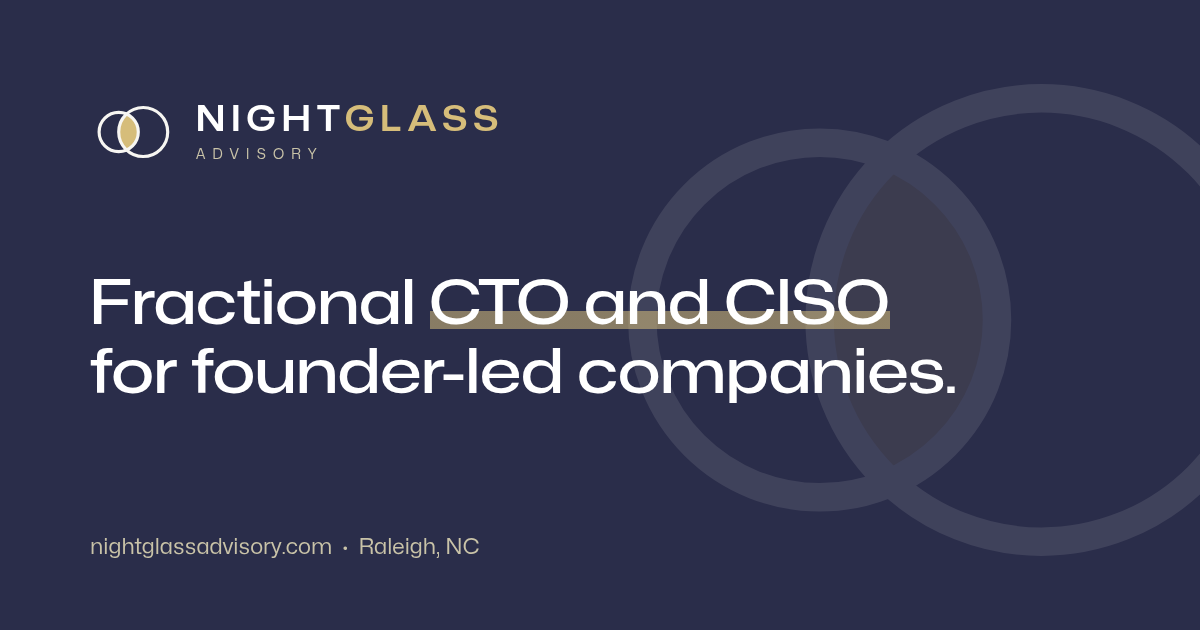
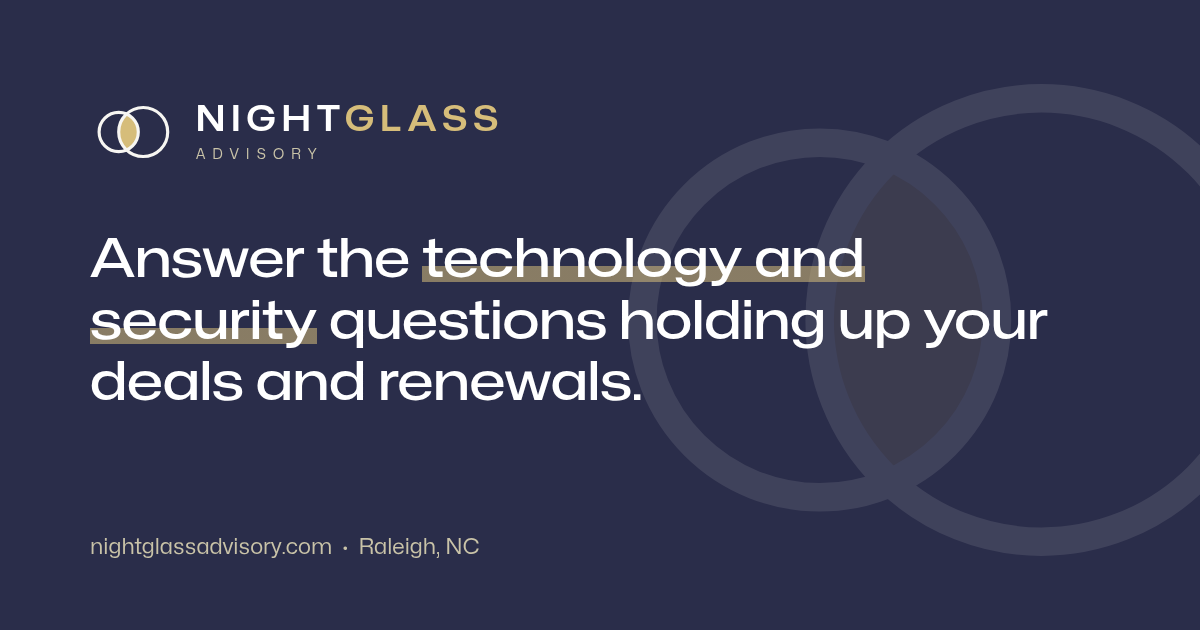
Phase 1 copy: lead with the fire, not the label (Abbi + Todd plan, Mike's D1-D3 10/23)
- H1/title/OG: "Answer the technology and security questions holding up your
  deals and renewals." "Fractional CTO and CISO" stays only in
  siteDescription + schema (D1-A). OG image re-rendered.
- Hero lede: why now + "make sure what they expose actually gets fixed"
  (Mike: no hands-on-keyboard claims). Declaration reworded, no "three weeks".
- W7: real 10-page questionnaire (D3); tech-side follow-up line.
- Problem cards: icons + CTO/CISO badges removed ("don't make me pick").
- Track record: drop the "NDAs are a feature" line.
- The Intensive: "How we start"; After the readout = three paths, incl.
  "I help you hire" (Todd's hire-my-replacement line).
- About: geek-to-human identity paragraph (D2).
- FAQ rebuilt around objections; CTO-or-CISO, Why Nightglass, insurance,
  someone-we-answer-to dropped.

Changed region(s): [[0.0617, 0.3921, 0.8942, 0.6333]]

diff --git a/config.php b/config.php
@@ -10,7 +10,8 @@ return [
     'baseUrl' => '',
     'production' => false,
     'siteName' => 'Nightglass Advisory',
-    'siteDescription' => 'Fractional CTO and CISO for founder-led companies between $2.5M and $25M. Technology decisions and security answers, without a full-time executive.',
+    // D1-A (Mike 10/23): the 'fractional CTO and CISO' label stays HERE (search, schema), leads with the problem.
+    'siteDescription' => 'Answers to the technology and security questions holding up your deals and renewals. Fractional CTO and CISO for founder-led companies between $2.5M and $25M.',
     'siteAuthor' => 'Mike Faas',
     'email' => 'mike@nightglassadvisory.com',
     'linkedin' => 'https://www.linkedin.com/in/mfaas',
@@ -30,12 +31,13 @@ return [
     // Commercial lane (Mike, 2026-10-12): every booking CTA goes to /schedule.
     'bookingUrl' => '/schedule',
 
-    // Hero line (2026-10-12, Mike: "I need both CTO and CISO"). Balanced on purpose.
-    // Hero lede, cut 55 -> 27 words (review 10/12). H1 already says 'fractional CTO and CISO' and 'founder-led'.
-    'tagline' => 'For companies between $2.5M and $25M: I help you decide what to build, buy and stop, and answer the security questions holding up your deals and renewals.',
+    // Hero lede (10/23, Abbi + Todd plan W4): why now + the follow-through. The H1 carries the questions, so the lede doesn't repeat them.
+    // Mike 10/23: never claim hands-on-keyboard work ('I fix'); he makes sure it gets fixed.
+    'tagline' => 'Winging it worked at 20 people. At 60, with an enterprise customer asking and one person holding everything together, you can\'t. I get you the answers, then make sure what they expose actually gets fixed.',
 
-    // The declaration (Mike, 2026-10-12, option A): CTO + CISO balanced. Not rendered on the page; the source line for outreach and bios.
-    'declaration' => 'I help founder-led companies between $2.5M and $25M answer the technology and security questions they can\'t answer in-house, in three weeks, without hiring a full-time CTO or CISO.',
+    // The declaration (Mike, 10/12, CTO + CISO balanced; reworded 10/23, D1-A): no 'three weeks' (reads as 'you only need me for
+    // three weeks') and no 'CTO or CISO' label. Not rendered on the page; the source line for outreach and bios.
+    'declaration' => 'I help founder-led companies between $2.5M and $25M answer the technology and security questions holding up their deals, renewals and growth, and then make sure what the answers expose actually gets fixed.',
 
     // /infosecon slides gate (Mike 10/12: post AFTER the talk, Fri 10/30 3:35pm). To publish: copy the deck PDF to
     // source/assets/downloads/when-everything-depends-on-everything-infosecon-2026.pdf, set true, push.
@@ -68,9 +70,17 @@ return [
     ],
 
     // Council 10/08: retainer offered ONLY at the readout, no on-call. Mike 10/12: named on the site, NO price, 3-month minimum.
+    // 10/23 (plan W9): 'After the readout' is three paths; path 3 is Todd's 'I'll hire my replacement'. 'help you hire' leaves room to price it.
     'retainer' => [
         'name' => 'Ongoing advisory',
-        'body' => 'Most clients run the plan themselves. If you\'d rather have me in the room while you do, I stay on as your part-time CTO and CISO: a monthly retainer with a three-month minimum and no on-call promise. I only offer it at the readout, once we both know what the job is.',
+        // Plain text for the Service schema only; the page renders 'lead' + 'paths'.
+        'body' => 'After the Intensive, I stay in it with your team as your part-time CTO and CISO until the plan is done: a monthly retainer with a three-month minimum and no on-call promise. When you are ready for a full-time leader, I help you hire them.',
+        'lead' => 'Three weeks is how it starts. After the readout, you pick how it goes from there.',
+        'paths' => [
+            ['You run the plan.', 'Most teams do. You leave with the answer, the order to do things in, and nothing left waiting on me.'],
+            ['I stay in it.', 'A monthly retainer, three-month minimum. I stay in it with your team until it\'s done, not as a to-do list left on your desk.'],
+            ['You&rsquo;re ready for a full-time leader.', 'I help you define the role, find the person and hand them the keys. Then I&rsquo;m out of a job, on purpose.'],
+        ],
     ],
 
     'included' => [
@@ -124,17 +134,17 @@ return [
     //          'outcome' => 'Cloud-native device governance framework. Enforceable, auditable security posture for the first time.',
     //          'stats' => [['15', 'policies migrated'], ['4', 'platforms automated'], ['0', 'store outages']]],
 
-    // Questions 1, 2, 5: verbatim from the CTOx referral one-pager (3 replaced, 4 reworded 10/12), "Questions to ask me" (2026-09-14).
-    // Answers: Jane drafts, REVIEWED AND EDITED BY MIKE one by one 2026-10-12. No em dashes. Feeds the FAQPage schema too.
+    // FAQ rebuilt 10/23 around OBJECTIONS (Abbi review 10/21 + Todd call). Echo draft, decisions by Mike 10/23. Feeds the FAQPage schema.
+    // Dropped: 'Are you a CTO or a CISO?', 'Why Nightglass?' (Abbi: important to you, not them), insurance premium + 'someone we
+    // answer to' (questions, not objections; one question kept: two-recommendations, the technology half).
+    // Kept verbatim (Mike-reviewed 10/12): IT provider, don't-need-you-yet. Trust answer cites only what's checkable on the page
+    // (Mike 10/23: not many references yet, so don't offer them). Never claim hands-on-keyboard work. No em dashes.
     'faqs' => [
-        ['q' => 'Our cyber insurance premium just doubled. Is that about us or about everyone?', 'a' => 'Usually some of both. Part of it is the market. The rest is your application: insurers price what you tell them about MFA, backups and incident planning. I\'ll read it with you and tell you which answers are costing you money, and what it takes to change them.'],
-        ['q' => 'We\'ve got two technical recommendations and can\'t tell which is right. How do you decide?', 'a' => 'I start with the decision, not the technology: what it has to do, what it costs to run for the life of the contract, who owns it when the person who proposed it leaves, and what it changes about your security. Usually one option falls out quickly. Sometimes the answer is neither.'],
-        // Replaced 10/12 (Mike: 'I don't love this question'): the partner-sheet 'We're doing well... how exposed' Q. Site no longer mirrors the sheet exactly.
+        ['q' => 'Will you just hand us a to-do list?', 'a' => 'No. A list nobody owns is usually how the question got this big in the first place. The Intensive ends with a plan your team can run, in order. Then I stay in it with your team until it\'s done, not as a to-do list left on your desk: the decisions, the vendor calls and the follow-through.'],
+        ['q' => 'How do we know we can trust you?', 'a' => 'Don\'t take my word for it. The price is fixed and it\'s on this page before we ever talk. The track record shows what changed, in numbers. And the Intensive ends at the readout, so you find out what working with me is like before you commit to anything longer.'],
+        ['q' => 'Are we signing up for you forever?', 'a' => 'No. The Intensive is three weeks at a fixed price, and it stands on its own. If you keep me on after, it\'s a monthly retainer with a three-month minimum. And when you\'re ready for a full-time CTO or CISO, I\'ll help you hire them. My job is to get you to the point where you don\'t need me.'],
         ['q' => 'We already have an IT provider. Why would we need you?', 'a' => 'Keep them. They run your systems; I make the calls they\'re waiting on someone to make: what to buy, what to stop, what "secure enough" means for a company like yours, and whether the contract covers what you think it covers. The good ones are glad to have someone on your side who speaks both languages.'],
-        // Rewritten 10/12 (Mike): most of the ICP has no board, so 'someone we answer to' (investors, lender, co-owner, big customer).
-        ['q' => 'Someone we answer to asked what we\'re doing about cybersecurity. What do I tell them on Monday?', 'a' => 'Three things, in plain language: what\'s protected and what isn\'t, what you\'ve decided to accept and why, and what happens next, with dates. That fits on one page. They aren\'t asking for a list of tools; they\'re asking whether anyone owns the risk. If the honest answer is "not yet," say so and show them the plan. That beats a page full of logos.'],
         ['q' => 'Be honest: will you tell me if we don\'t actually need you yet?', 'a' => 'Yes. If a good IT provider and a few decisions will cover you for now, I\'ll say so on the first call and point you to who can help. That\'s better for both of us than paying for work you don\'t need.'],
-        ['q' => 'Are you a CTO or a CISO?', 'a' => 'Both. At a company your size the questions overlap: the app, the IT contract and the insurance form are one conversation. Splitting them across two part-time people is how gaps happen. When a question needs a deep specialist, a pen tester or a senior developer, I\'ll say so and help you find the right one.'],
-        ['q' => 'Why "Nightglass"?', 'a' => 'A night glass is a telescope built for seeing in the dark: a wide field of view at low magnification. That\'s the job. Look across the whole company, find what\'s hard to see, and tell you what to fix first.'],
+        ['q' => 'We\'ve got two technical recommendations and can\'t tell which is right. How do you decide?', 'a' => 'I start with the decision, not the technology: what it has to do, what it costs to run for the life of the contract, who owns it when the person who proposed it leaves, and what it changes about your security. Usually one option falls out quickly. Sometimes the answer is neither.'],
     ],
 ];

diff --git a/source/index.blade.php b/source/index.blade.php
@@ -9,7 +9,6 @@ title:
 --}}
 @php
     $c = 'mx-auto max-w-7xl px-6 lg:px-8';
-    $badge = fn ($r) => ['cto' => 'CTO', 'ciso' => 'CISO', 'both' => 'CTO + CISO'][$r];
     $pill = 'inline-flex rounded-full px-4 py-1.5 text-sm font-semibold transition';
     $topics = [
         ['document-check', 'Security questionnaires'], ['clipboard-document-list', 'IT contracts'],
@@ -25,7 +24,8 @@ title:
     <div class="{{ $c }} mt-16 sm:mt-24 md:mt-32">
         <div class="lg:grid lg:grid-cols-12 lg:items-center lg:gap-x-12">
             <div class="st-fade lg:col-span-7">
-                <h1 class="st-display text-5xl font-medium tracking-tight text-balance text-st-ink sm:text-7xl lg:text-6xl xl:text-7xl">Fractional <span class="st-mark">CTO and CISO</span> for <span class="whitespace-nowrap">founder-led</span> companies.</h1>
+                {{-- H1 (10/23, D1-A): the fire, not the label. Abbi's favorite line, balanced to technology + security. --}}
+                <h1 class="st-display text-5xl font-medium tracking-tight text-balance text-st-ink sm:text-6xl lg:text-5xl xl:text-6xl">Answer the <span class="st-mark">technology and security</span> questions holding up your deals and renewals.</h1>
                 <p class="mt-6 max-w-2xl text-xl text-st-text">{{ $page->tagline }}</p>
                 <div class="mt-10 flex flex-wrap items-center gap-x-6 gap-y-4">
                     <a href="{{ $page->bookingUrl }}" class="inline-flex rounded-full bg-st-ink px-5 py-2.5 text-base font-semibold text-st-page transition hover:bg-st-panel-2"><span class="relative top-px">Book a 30-minute call</span></a>
@@ -48,9 +48,10 @@ title:
         <div class="st-fade st-border max-w-2xl pt-12">
             <h2>
                 <span class="st-display st-eyebrow mb-6 block text-base font-semibold text-st-gold-ink">When founders call</span>
-                <span class="st-display block text-4xl font-medium tracking-tight text-balance text-st-ink sm:text-5xl">It usually starts with a question nobody inside can answer.</span>
+                <span class="st-display block text-4xl font-medium tracking-tight text-balance text-st-ink sm:text-5xl">Your biggest customer sent a 10-page security questionnaire. It&rsquo;s due Friday, and nobody inside can answer it.</span>
             </h2>
-            <p class="mt-6 text-xl text-st-text">And it&rsquo;s attached to money: a deal, a contract, a renewal or a hire. Some start as technology, some as security, and most turn out to be both.</p>
+            {{-- 10/23: '10-page' is Mike's real number (D3), not Abbi's 38 or the Todd-call 28. --}}
+            <p class="mt-6 text-xl text-st-text">Or it&rsquo;s 20 new hires and nobody has decided what they&rsquo;ll run on. Or the one person who knows how everything works just gave notice. Every one is attached to money, and most turn out to be technology and security at once.</p>
         </div>
     </div>
     <div class="{{ $c }} mt-16">
@@ -58,14 +59,8 @@ title:
             @foreach ($page->problems as $i => $t)
                 <article class="st-fade relative flex w-full flex-col rounded-3xl bg-white p-6 shadow-sm ring-1 ring-st-ink/10 transition hover:bg-st-wash sm:p-8" style="transition-delay: {{ ($i % 2) * 80 }}ms">
                     <a href="{{ $page->bookingUrl }}" class="absolute inset-0 rounded-3xl" aria-label="Talk it through: {{ $t['text'] }} Book a call."></a>
-                    <div class="flex items-center gap-x-4">
-                        <span class="flex h-12 w-12 flex-none items-center justify-center rounded-2xl bg-st-indigo shadow-sm">
-                            @include('_partials.icon', ['name' => $t['icon'], 'class' => 'h-6 w-6 text-st-gold'])
-                        </span>
-                        @php $rolePill = ['cto' => 'bg-st-indigo text-white', 'ciso' => 'bg-st-gold text-st-ink', 'both' => 'bg-st-indigo text-st-gold ring-2 ring-st-gold'][$t['role']]; @endphp
-                        <span class="rounded-full px-2.5 py-0.5 text-xs font-semibold {{ $rolePill }}">{{ $badge($t['role']) }}</span>
-                    </div>
-                    <p class="st-display mt-6 text-2xl/9 font-medium text-st-ink">{{ $t['text'] }}</p>
+                    {{-- Icons + CTO/CISO badges removed 10/23 (Abbi: "Don't make me pick"). 'role'/'icon' stay in config for the partner sheet. --}}
+                    <p class="st-display text-2xl/9 font-medium text-st-ink">{{ $t['text'] }}</p>
                     <p class="mt-auto flex items-center pt-6 text-sm font-semibold text-st-gold-ink">Talk it through <span aria-hidden="true" class="ml-1">&rarr;</span></p>
                 </article>
             @endforeach
@@ -124,7 +119,7 @@ title:
                     <span class="st-display st-eyebrow mb-6 block text-base font-semibold text-st-gold-ink">Track record</span>
                     <span class="st-display block text-4xl font-medium tracking-tight text-balance text-st-ink sm:text-5xl">Proof beats prose.</span>
                 </h2>
-                <p class="mt-6 text-xl text-st-text">Names withheld. NDAs are a feature, not a limitation.</p>
+                <p class="mt-6 text-xl text-st-text">What changed, in numbers.</p>
             </div>
             {{-- Subgrid: all three cards share the same 6 row tracks, so every row lines up across cards. --}}
             <div class="mt-16 grid grid-cols-1 gap-8 lg:gap-y-0 {{ count($page->cases) === 2 ? 'max-w-5xl lg:grid-cols-2' : 'lg:grid-cols-3' }}">
@@ -159,7 +154,7 @@ title:
         <div class="st-fade max-w-2xl">
             <h2>
                 <span class="st-display st-eyebrow mb-6 block text-base font-semibold text-st-gold-ink">{{ $page->diagnostic['name'] }}</span>
-                <span class="st-display block text-4xl font-medium tracking-tight text-balance text-st-ink sm:text-5xl">Three weeks. Fixed price. A clear answer.</span>
+                <span class="st-display block text-4xl font-medium tracking-tight text-balance text-st-ink sm:text-5xl">How we start: one question, three weeks, a fixed price.</span>
             </h2>
             <p class="mt-6 text-xl text-st-text">Start with the question that&rsquo;s keeping you up, technology or security. Leave with the answer, and a plan for everything it touches.</p>
         </div>
@@ -193,7 +188,15 @@ title:
                 </li>
                 <li class="st-fade mt-10">
                     <div class="st-border pt-10">
-                        <strong class="font-semibold text-st-ink">After the readout.</strong> {{ $page->retainer['body'] }}
+                        <strong class="font-semibold text-st-ink">After the readout.</strong> {{ $page->retainer['lead'] }}
+                        <ul role="list" class="mt-4 space-y-3">
+                            @foreach ($page->retainer['paths'] as [$k, $v])
+                                <li class="flex gap-x-3">
+                                    @include('_partials.icon', ['name' => 'check-circle', 'class' => 'mt-0.5 h-5 w-5 flex-none text-st-gold-ink'])
+                                    <span><strong class="font-semibold text-st-ink">{!! $k !!}</strong> {!! $v !!}</span>
+                                </li>
+                            @endforeach
+                        </ul>
                         <div class="mt-6"><a href="{{ $page->bookingUrl }}" class="{{ $pill }} bg-st-ink text-st-page hover:bg-st-panel-2"><span class="relative top-px">Start with a 30-minute call</span></a></div>
                     </div>
                 </li>
@@ -212,6 +215,8 @@ title:
                         <span class="st-display block text-4xl font-medium tracking-tight text-balance text-st-ink sm:text-5xl">Both chairs. One plan.</span>
                     </h2>
                     <p class="mt-6 text-xl text-st-text">I&rsquo;m Mike Faas. Most companies get technology advice from one person and security advice from another, and then the two disagree. I sit in both, so the technology plan and the security plan are the same plan.</p>
+                    {{-- D2 (Mike 10/23): geek-to-human is the identity beat, carried by the story, not the hook. --}}
+                    <p class="mt-4 text-base text-st-text">I&rsquo;ve been introduced more times than I can count as &ldquo;the IT guy, but not a typical IT guy.&rdquo; I&rsquo;ll take it. I can talk to your investors, your engineers, and the developer who knows where everything is buried. I translate geek into human, and that middle ground is where I do my best work.</p>
                     <p class="mt-4 text-base text-st-text">I&rsquo;ve spent 25 years leading technology and security at companies from 50 people to 5,000, through more than one acquisition, finding six-figure savings along the way. CISSP, based in Raleigh.</p>
                 </div>
                 <dl class="mt-16 grid max-w-2xl grid-cols-1 gap-10 sm:grid-cols-2">

diff --git a/source/_layouts/studio.blade.php b/source/_layouts/studio.blade.php
@@ -14,7 +14,7 @@
 <head>
     <meta charset="utf-8">
     <meta name="viewport" content="width=device-width, initial-scale=1">
-    <title>{{ $page->title ? $page->title . ' | ' . $page->siteName : $page->siteName . ' | Fractional CTO and CISO for founder-led companies' }}</title>
+    <title>{{ $page->title ? $page->title . ' | ' . $page->siteName : $page->siteName . ' | Technology and security answers for founder-led companies' }}</title>
     <meta name="description" content="{{ $page->description ?? $page->siteDescription }}">
     <link rel="canonical" href="{{ $page->getUrl() }}">
     <meta property="og:site_name" content="{{ $page->siteName }}">
@@ -25,7 +25,7 @@
     <meta property="og:image" content="{{ rtrim($page->baseUrl, '/') }}/assets/brand/og-image.png">
     <meta property="og:image:width" content="1200">
     <meta property="og:image:height" content="630">
-    <meta property="og:image:alt" content="Nightglass Advisory: Fractional CTO and CISO for founder-led companies.">
+    <meta property="og:image:alt" content="Nightglass Advisory: Answer the technology and security questions holding up your deals and renewals.">
     <meta name="twitter:card" content="summary_large_image">
     <link rel="icon" href="/favicon.ico" sizes="any">
     <link rel="icon" type="image/png" sizes="32x32" href="/assets/brand/favicon-32.png">
